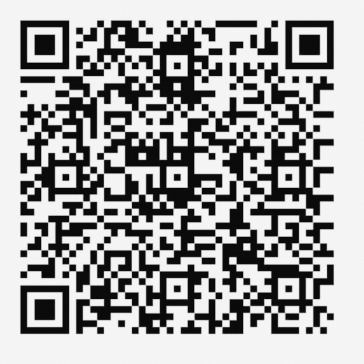
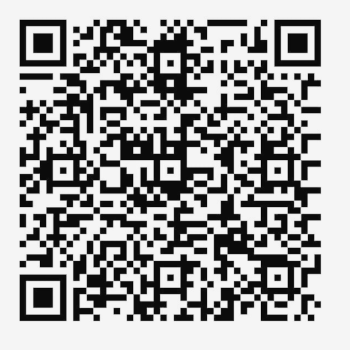
atualização BomBarato4.2.0

diff --git a/ArquivoDio/dicas&promocoes.html b/ArquivoDio/dicas&promocoes.html
@@ -268,7 +268,7 @@
         }
 
         .container .image img {
-            width: 100%;
+            width: 80%;
             height: auto;
             border-radius: 8px;
             object-fit: cover; /* Mantém a imagem proporcional */
@@ -641,6 +641,10 @@
                     
                     <h2>Apoie Nosso Conteúdo!</h2>
                     <p><b>Se nossas dicas foram úteis ou agregaram valor ao seu dia, que tal nos ajudar com um pequeno gesto? Uma doação, por menor que seja, nos mostra o quanto nossas informações estão fazendo a diferença para você. Com a sua contribuição, poderemos continuar mantendo o site sempre atualizado e repleto de conteúdo relevante. Sua opinião é fundamental para nós! Se tiver dúvidas, sugestões ou dicas, não hesite em nos contatar pelo WhatsApp ou enviar um e-mail. Estamos aqui para ajudar!</b></p>
+                    <h3>Não Viu Nossas Dicas, Não se Preocupe. </h3>
+                    <div>
+                        <a href="#dicas-instalação"><h2>Veja Aqui!!!</h2></a>
+                    </div>
                     <p>Escolha um valor para doar:</p>
                     <form id="donationForm">
                         <input type="radio" id="5" name="amount" value="5">
@@ -664,9 +668,12 @@
 
                     <div id="donationDetails" style="display: none;">
                         <h3>Detalhes para Doação</h3>
-                        <div id="qrCode" style="display: none;">
-                            <p>Escaneie o QR code abaixo para fazer a doação via Pix:</p>
-                            <img id="qrCodeImage" src="" alt="QR Code Pix">
+                        <div id="qrCode">
+                            <p><b></b>Abra o app do seu e Banco e escaneie o <br>QRcode abaixo para fazer a doação via Pix:</p>
+                            <img id="qrCodeImage_5" src="SI/Qr_Code_mini_5.png" alt="QR Code Pix 5" style="display: none;">
+                            <img id="qrCodeImage_10" src="SI/Qr_Code_mini_10.png" alt="QR Code Pix 10" style="display: none;">
+                            <img id="qrCodeImage_15" src="SI/Qr_Code_mini_15.png" alt="QR Code Pix 15" style="display: none;">
+                            <img id="qrCodeImage_other" src="SI/Qr_Code_mini_void.png" alt="QR Code Pix Outro Valor" style="display: none;">
                         </div>
                         <div id="bankDetails" style="display: none;">
                             <p>Dados Bancários para Depósito:</p>
@@ -703,7 +710,7 @@
                     QNL 20, LN VIA 29 LT 09, CEP 72161-029, Tel. 61 9 9444-0074
                 </h4>
                 <h2>Estamos Aqui!</h2>
-                <a href="https://maps.app.goo.gl/TQn9v2CwouPc7Z8q9"><img src="SI/inagem-mapPNG.png" alt="MAP"></a>
+                <a href="https://maps.app.goo.gl/TQn9v2CwouPc7Z8q9"><img src="SI/inagem-mapPNG.png" alt="MAP" target="_blank"></a>
             </span>
         </section>
         <p>&copy; 2024 SoluçõesInovadoras.com, Todos os direitos reservados.</p>
@@ -746,12 +753,6 @@
             function generateDonationDetails() {
                 const amount = document.querySelector('input[name="amount"]:checked').value;
                 const paymentMethod = document.querySelector('input[name="paymentMethod"]:checked').value;
-                let donationAmount = amount;
-
-                // Se "Outro valor" foi selecionado, não obrigar a digitar um valor
-                if (amount === 'other') {
-                    donationAmount = 'no_value';  // Marca como sem valor definido
-                }
 
                 // Verifica se uma forma de pagamento foi selecionada
                 if (!paymentMethod) {
@@ -759,20 +760,28 @@
                     return;
                 }
 
+                // Mostra os detalhes da doação
                 document.getElementById('donationDetails').style.display = 'block';
 
                 if (paymentMethod === 'pix') {
                     document.getElementById('qrCode').style.display = 'block';
                     document.getElementById('bankDetails').style.display = 'none';
-                    // Gera o QR code apropriado baseado no valor selecionado
-                    if (donationAmount === '5') {
-                        document.getElementById('qrCodeImage R$5,00').src = 'qr_code_5.png';  // QR code para R\$ 5,00
-                    } else if (donationAmount === '10') {
-                        document.getElementById('qrCodeImage R$10,00').src = 'qr_code_10.png';  // QR code para R\$ 10,00
-                    } else if (donationAmount === '15') {
-                        document.getElementById('qrCodeImage R$15,00').src = 'qr_code_15.png';  // QR code para R\$ 15,00
+
+                    // Esconde todas as imagens de QR code inicialmente
+                    document.getElementById('qrCodeImage_5').style.display = 'none';
+                    document.getElementById('qrCodeImage_10').style.display = 'none';
+                    document.getElementById('qrCodeImage_15').style.display = 'none';
+                    document.getElementById('qrCodeImage_other').style.display = 'none';
+
+                    // Mostra o QR code apropriado baseado no valor selecionado
+                    if (amount === '5') {
+                        document.getElementById('qrCodeImage_5').style.display = 'block';  // Exibe QR code para R\$ 5,00
+                    } else if (amount === '10') {
+                        document.getElementById('qrCodeImage_10').style.display = 'block';  // Exibe QR code para R\$ 10,00
+                    } else if (amount === '15') {
+                        document.getElementById('qrCodeImage_15').style.display = 'block';  // Exibe QR code para R\$ 15,00
                     } else {
-                        document.getElementById('qrCodeImage').src = 'https://github.com/lml-MarcusHenrique-lml/Curso_dio-Flex_Box/blob/main/ArquivoDio/SI/Qr_Code_mini_void.png';  // QR code sem valor definido
+                        document.getElementById('qrCodeImage_other').style.display = 'block';  // Exibe QR code para outro valor
                     }
 
                 } else {

diff --git a/ArquivoDio/index.html b/ArquivoDio/index.html
@@ -15,7 +15,7 @@
             padding: 0;
             overflow-x: hidden;
         }
-
+        
         /* Fundo de GIF - Padrão */
         .bgImage {
             position: fixed;
@@ -268,7 +268,7 @@
         }
 
         .container .image img {
-            width: 100%;
+            width: 85%;
             height: auto;
             border-radius: 8px;
             object-fit: cover; /* Mantém a imagem proporcional */
@@ -316,6 +316,7 @@
         .proj p {
             font-size: 22px;
         }
+        
     </style>
     <script>
         document.addEventListener('DOMContentLoaded', function() {
@@ -367,8 +368,9 @@
                 <a href="index.html" class="navbar-item">Início</a>
                 <a href="#sobre" class="navbar-item">Sobre Nós</a>
                 <a href="#projetos" class="navbar-item">Projetos</a>
+                <a href="#consultoria" class="navbar-item">Produtos</a>
                 <a href="dicas&promocoes.html" class="navbar-item">Dicas&Pomoções</a>
-                <a href="#consultoria" class="navbar-item">Consultoria</a>
+                <a href="dicas&promocoes.html#cafezinho" class="navbar-item">Cafezinho</a>
                 <a href="#contato" class="navbar-item">Contato</a>
             </div>
         </div>
@@ -389,7 +391,7 @@
     
     <section  class="content-section">
         <h2>Sobre Nós</h2>
-            <p id="serviços"><b>Bem-vindos!</b> <br>A Soluções Inovadoras.com é a sua parceira ideal para transformar seus ambientes em espaços mais confortáveis e eficientes. Com mais de 15 anos de experiência, oferecemos através de nossos Profissionais, soluções completas em refrigeração, climatização e automação para residências, comércios e indústrias. </p>
+            <p id="serviços"><b>Bem-vindos!</b> <br><br>A Soluções Inovadoras.com, é a parceira ideal para transformar seus ambientes em espaços mais confortáveis e eficientes. Com mais de 15 anos de experiência, oferecemos através de nossos Profissionais, soluções completas em refrigeração, climatização e automação para residências, comércios e indústrias. </p>
             <p>
             Nossa equipe de especialistas desenvolve projetos personalizados, utilizando as mais recentes tecnologias e produtos de alta qualidade. Além disso, contamos com um amplo portfólio de serviços, incluindo instalação, manutenção e reparo de equipamentos.<br> <strong>Venda de peças, acessórios e consultoria especializada.</strong> 
         </p>
@@ -417,13 +419,13 @@
                 <p>
                     <b>
                         Quando o assunto é projetos, a Soluções Inovadoras é a referência que você procura.
-                        Nós somos especialistas na elaboração e execução de projetos que vão além das expectativas. Nossa missão é oferecer soluções inteligentes e eficientes, tornando-nos referência em planejamento e execução de projetos. Atuamos em diversas áreas, sempre com foco na qualidade e eficiência.
+                        Nós somos especialistas na elaboração e execução de projetos que vão além das expectativas. Nossa missão é oferecer soluções inteligentes e eficientes, tornando-nos referência em planejamento e execução de projetos. Atuamos em diversas áreas, sempre com foco na qualida.
                     </b>
                 </p>
                 <p>
                     <b>
-                        Nosso portfólio inclui projetos de climatização, onde trabalhamos com sistemas split HW, multi split (do bi ao penta), além de tecnologias mais avançadas, como VRF e VRV, garantindo sempre a melhor solução para o seu ambiente. <br>
-                        Além da climatização, somos especializados em câmaras frigoríficas, manutenção e automação de piscinas, fornecimento de peças e acessórios, e automação residencial e comercial. Oferecemos a você não apenas a execução, mas também a análise precisa das necessidades e a indicação das melhores alternativas para maximizar a eficiência e o conforto dos nossos clientes. <br>
+                        Nosso portfólio inclui projetos de climatização, onde trabalhamos com sistemas split HW, multi split (do bi ao penta), além de tecnologias mais avançadas, como VRF e VRV, garantindo sempre a melhor solução para o seu ambiente. <br><br>
+                        Além da climatização, somos especializados em câmaras frigoríficas, vendas de peças, acessórios, manutenção e automação de piscinas, automação residencial e comercial. Oferecemos a você não apenas a execução, mas também a análise precisa das necessidades e a indicação das melhores alternativas para maximizar a eficiência e o conforto dos nossos clientes. <br><br>
                         Conte com a nossa equipe para projetos que unem inovação, qualidade e confiabilidade. Estamos prontos para superar as suas expectativas em todas as fases do seu projeto, garantindo resultados sólidos e sustentáveis.
                     </b>
                 </p>
@@ -467,10 +469,10 @@
             </div>
 
             <div class="container">
-                <div class="image">
-                    <img src="SI/Forma pagamento.gif" alt="Experiência e Conhecimento">
+                <div id="desconto" class="image"  >
+                    <img src="SI/desconto.gif" alt="Experiência e Conhecimento">
                 </div>
-                <div class="content">
+            <div class="content">
                     <h3>Facilidades de Pagamento</h3>
                     <p>
                         <b>
